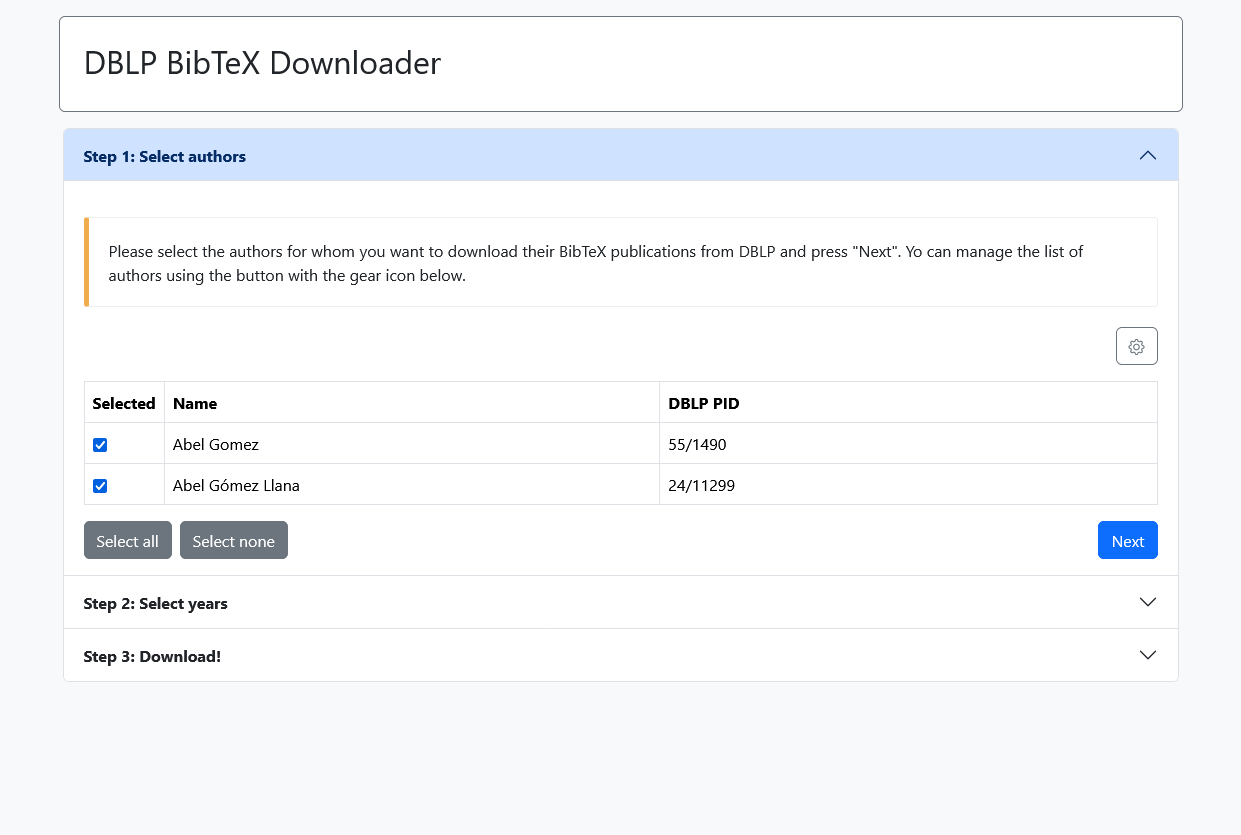
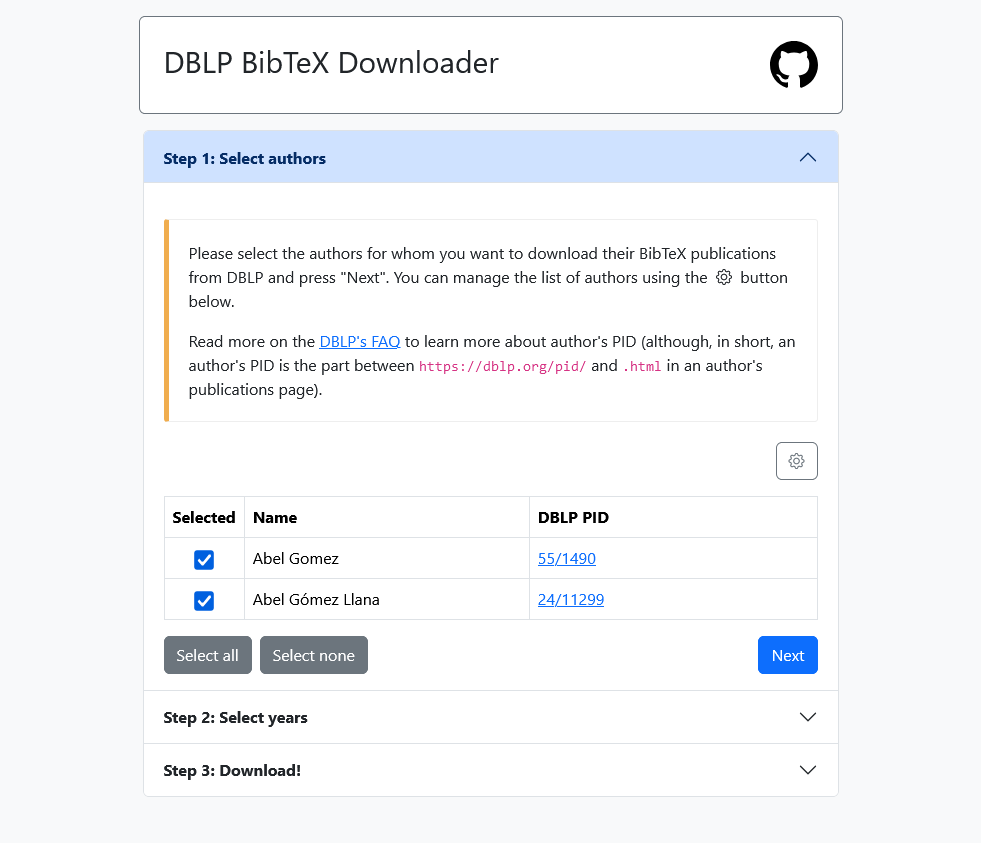
Update documentation

diff --git a/README.md b/README.md
@@ -24,7 +24,7 @@ Notice that the PIDs are the "unique identifiers" used by DBLP. [According to th
 
 > However, there is also a (more cryptic) **unique identifier** associated with a dblp person record. You can find this key listed in the "export" drop down menu right next to the name. The key can also be found as the "key" attribute of the "person" element in a persons XML export.
 
-Thus, we use this identifier in this program (removing the `pid/` or the `homepage/` prefix that apprears in different places of the site). This identifier can also be easily found in the address of an author's record.
+Thus, we use this identifier in this program (removing the `pid/` or the `homepage/` prefix that apprears in different places of DBLP). This identifier can also be easily found in the address of an author's record.
 
 Using as an example my personal record (https://dblp.org/pid/55/1490.html), my PID is `55/1490`.
 
@@ -42,6 +42,13 @@ To install the dependencies run:
 pip install -r requirements.txt 
 ```
 
+It is recommended to use a virtual environment, i.e., the following commands should be run before installing the dependencies:
+
+```
+python3 -m venv myvenv
+source myvenv/bin/activate
+```
+
 # Web interface
 
 The web interface is a simple web page that presents the following three steps:
@@ -56,16 +63,16 @@ The web interface is a simple web page that presents the following three steps:
 
 * **Step 3**: Download the references
 
-    <center><img src="docs/img/step2.png" width="720" alt="Step 2"></center>
+    <center><img src="docs/img/step3.png" width="720" alt="Step 2"></center>
 
-**NOTE**: Retrieval of citation may take some time, since the REST API waits 1 second between the requests of the different authors to avoid overloading the DBLP site, as suggested in https://dblp.org/faq/Am+I+allowed+to+crawl+the+dblp+website.html
+**NOTE**: Retrieval of citations may take some time, since the REST API waits 1 second between requests to DBLP to get each author's citations as suggested in https://dblp.org/faq/Am+I+allowed+to+crawl+the+dblp+website.html
 
 # Command line interface
 
 Publications can be downloaded from the command line using the `dblpdw.py` program. Notice that if the program is executed using a non-existing file, an empty file will be created that can be used as a template.
 
 ```
-usage: dblpdw.py [-h] -a AUTHORS_FILE [-s START_YEAR] [-e END_YEAR]
+usage: dblpdw.py [-h] -a AUTHORS_FILE [-o OUTPUT_FILE] [-s START_YEAR] [-e END_YEAR]
 
 Download publications as BibTeX from DBLP
 
@@ -73,6 +80,8 @@ optional arguments:
   -h, --help            show this help message and exit
   -a AUTHORS_FILE, --authors-file AUTHORS_FILE
                         Authors file, containing the author's names and their DBLP keys in CSV. An empty file will be created if the given file does not exist.
+  -o OUTPUT_FILE, --output-file OUTPUT_FILE
+                        Output file. If not specified, results will be shown in stdout
   -s START_YEAR, --start-year START_YEAR
                         start year
   -e END_YEAR, --end-year END_YEAR
@@ -108,7 +117,7 @@ Allowed methods:
 
 Allowed methods 
 
-* `GET`: returns an authors record.
+* `GET`: returns an author's record.
 
     E.g.:
 
@@ -123,10 +132,10 @@ Allowed methods
     ```
 
     Return codes:
-    * `200`: OK
-    * `404`: The given author does not exist
+    * `200`: OK.
+    * `404`: The given author does not exist.
 
-* `PUT`: Creates or updates an author record (mostly its name). The pid inside the payload must match the pid in the URL.
+* `PUT`: Creates or updates an author record (mostly its name, since it's the only property besides its pid). The pid inside the payload **MUST MATCH** the pid in the URL.
 
     E.g.:
 
@@ -137,10 +146,10 @@ Allowed methods
     changes the name of `John Doe` to `Johnny Doe`
 
     Return codes:
-    * `204`: successful (but no content response is needed)
-    * `400`: The author data does not matches the PID in the URL
+    * `204`: successful (no content response).
+    * `400`: The author data does not match the pid in the URL.
 
-* `DELETE`: Deletes an author record.
+* `DELETE`: Deletes an author's record.
     
     E.g.:
 
@@ -148,7 +157,7 @@ Allowed methods
     curl -X DELETE http://example.com/author/01-2345
     ```
 
-    deletes author John Doe.
+    deletes author _John Doe_ (pid 01-2345) .
 
 ## `/publications/<comma_separated_pids>?start=<start>&end=<end>`
 
@@ -160,7 +169,8 @@ Allowed methods
     curl -X GET http://example.com/publications/01-2345,x-JaneDoe?start=2023&end=2024
     ```
 
-    returns the publications in BibTeX for both John Doe and Jane Doe for the period 2023-2024.
+    returns the publications in BibTeX for both _John Doe_ and _Jane Doe_ for the period 2023-2024.
 
-    **NOTE**: The REST API waits 1 second between the requests to DBLP for the different authors to avoid overloading the site, as suggested in https://dblp.org/faq/Am+I+allowed+to+crawl+the+dblp+website.html
+    **NOTE**: As aforementioned, the REST API waits 1 second between requests to DBLP to get each author's citations to avoid overlaoding their site as suggested in https://dblp.org/faq/Am+I+allowed+to+crawl+the+dblp+website.html
+
 
